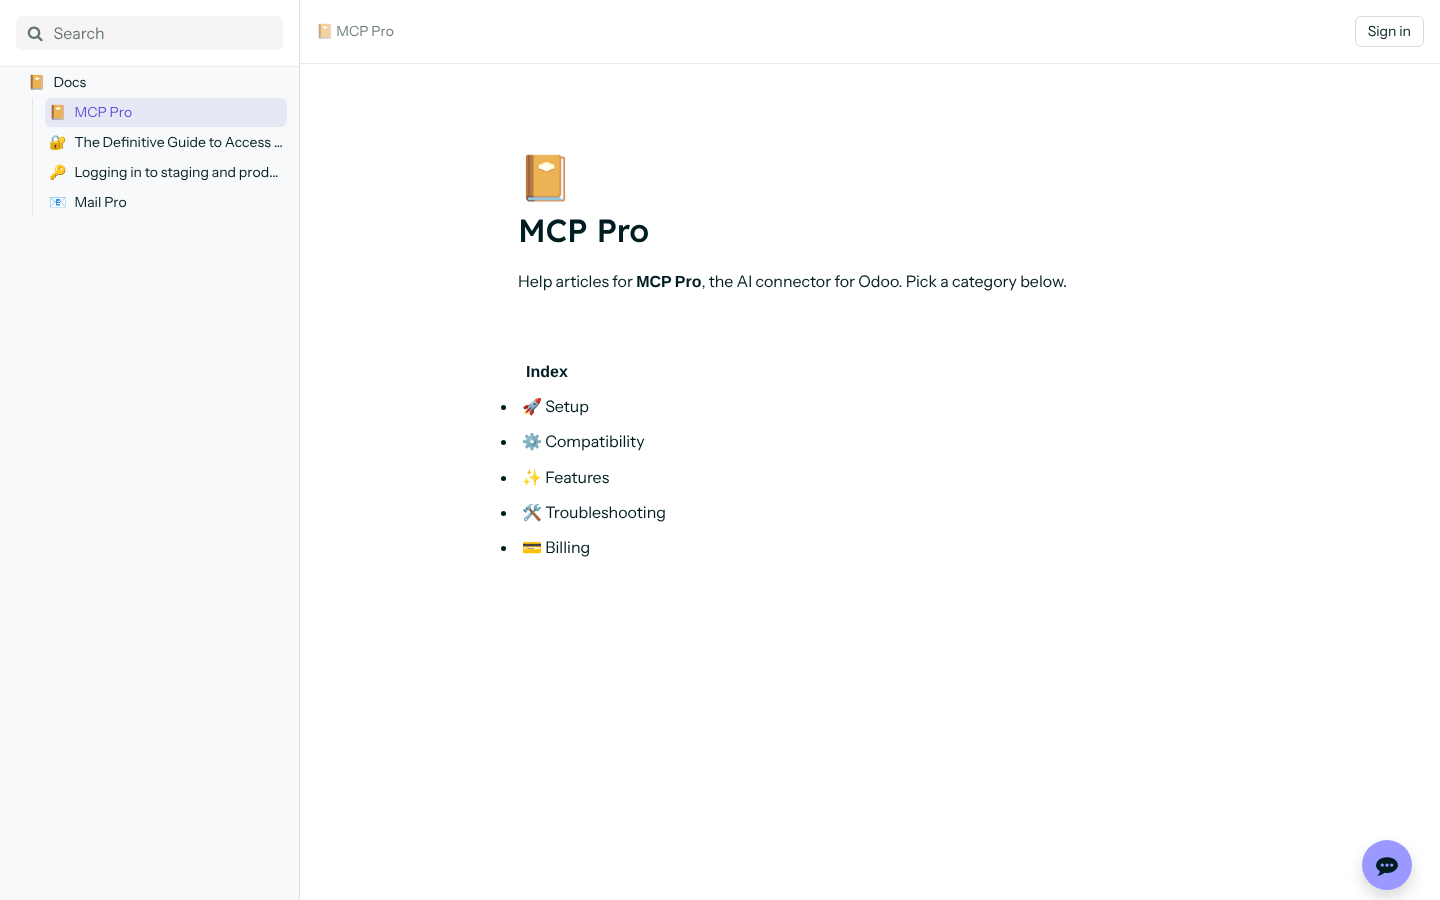
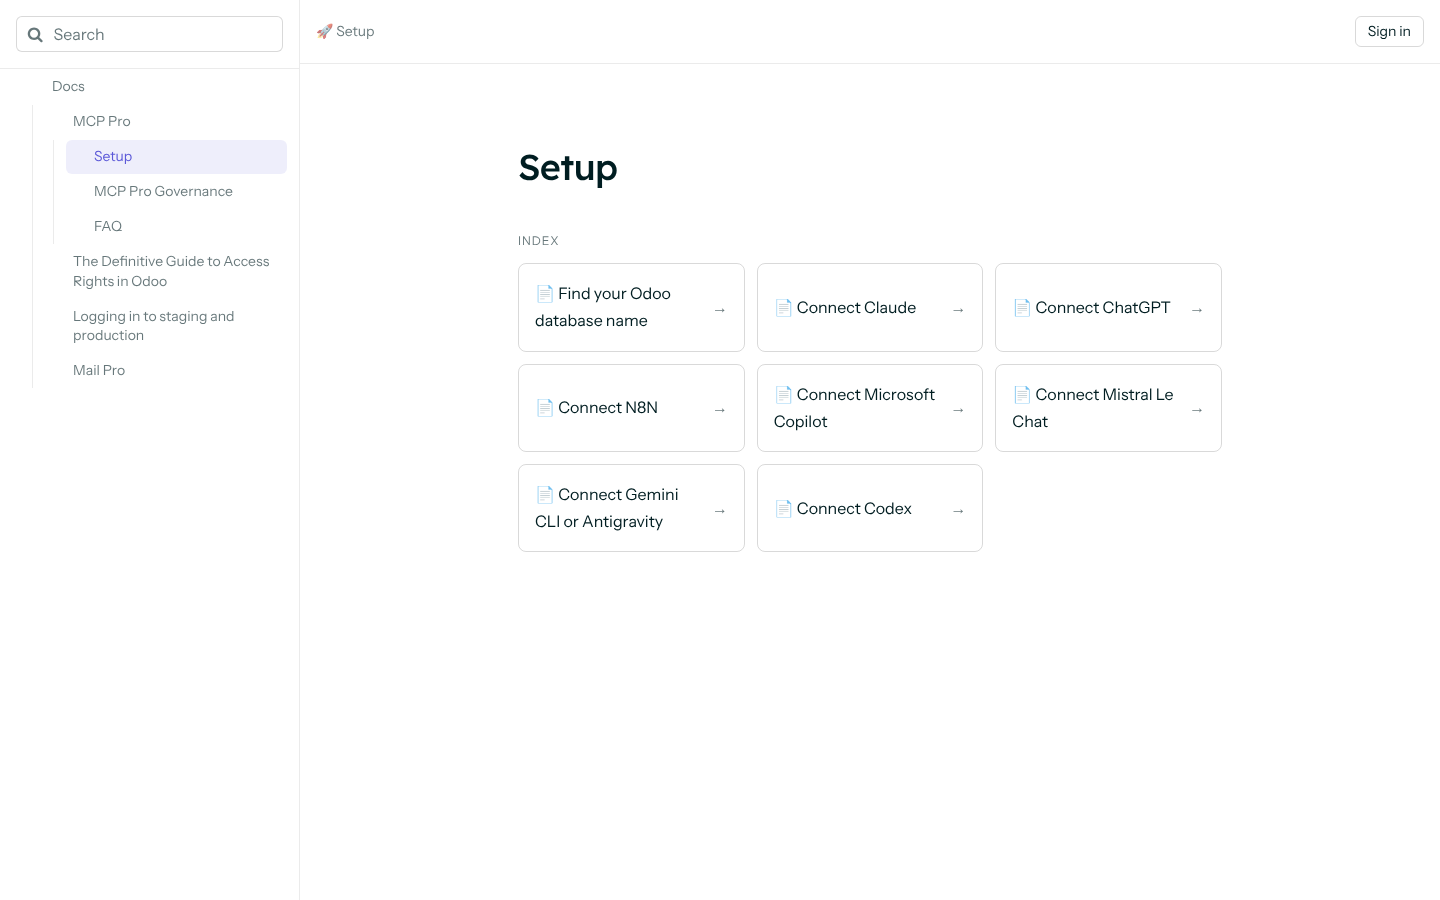
Knowledge: drop the wiki look -- white text-only nav, cards for the index
The emoji column, the grey sidebar panel and a bulleted index were what
still read as dated. The sidebar is white with text-only rows (caret on
hover), search is a bordered field, the page icon above the title is
gone, headings ignore theme colours, and the article index renders as
cards that wrap long titles.

Claude-Session: https://claude.ai/code/session_01VMehCQhpZk7iKSmaWM16ps

diff --git a/pan_style_pro_enterprise/static/src/scss/_knowledge.scss b/pan_style_pro_enterprise/static/src/scss/_knowledge.scss
@@ -31,7 +31,7 @@
   }
 
   h1 { font-size: 2rem;     margin: 2.5rem 0 1rem; }
-  h2 { font-size: 1.5rem;   margin: 2.25rem 0 0.75rem; padding-bottom: 0.5rem; border-bottom: 1px solid var(--pan-border); }
+  h2 { font-size: 1.5rem;   margin: 2.25rem 0 0.75rem; }
   h3 { font-size: 1.25rem;  margin: 1.75rem 0 0.5rem; }
   h4 { font-size: 1.0625rem; margin: 1.5rem 0 0.5rem; }
 
@@ -39,9 +39,78 @@
     margin-top: 0;
   }
 
-  // Brand: headings are never bold, even when the editor wrapped them in it
-  :is(h1, h2, h3, h4, h5, h6) :is(b, strong, span) {
+  h1 {
+    font-size: 2.25rem;
+    letter-spacing: -0.02em;
+  }
+
+  // Brand: headings are never bold and never a theme colour, even when the
+  // editor wrapped them in one
+  :is(h1, h2, h3, h4, h5, h6) :is(b, strong, span, font) {
     font-weight: inherit !important;
+    color: inherit !important;
+  }
+
+  // The article index embed: cards, not a bulleted list
+  .o_embedded_articles_index_label {
+    font-family: var(--pan-font-body) !important;
+    font-size: 0.75rem;
+    font-weight: 500 !important;
+    letter-spacing: 0.08em;
+    text-transform: uppercase;
+    color: var(--pan-text-secondary);
+    padding: 0 !important;
+    margin: var(--pan-space-5) 0 var(--pan-space-3);
+  }
+
+  .o_embedded_articles_index_content > ul {
+    display: grid;
+    grid-template-columns: repeat(auto-fill, minmax(13rem, 1fr));
+    gap: var(--pan-space-3);
+    list-style: none;
+    padding: 0 !important;
+
+    > li {
+      margin: 0;
+
+      // Cards show one level; the sidebar carries the rest of the tree
+      > ul {
+        display: none;
+      }
+
+      > a {
+        height: 100%;
+        align-items: center;
+        padding: var(--pan-space-4) !important;
+        border: 1px solid var(--pan-border-strong);
+        border-radius: var(--pan-radius-lg);
+        font-weight: 500;
+        color: var(--pan-text) !important;
+        text-decoration: none;
+        transition: border-color 0.15s, color 0.15s;
+
+        .text-truncate {
+          white-space: normal;
+        }
+
+        &::after {
+          content: "\2192";
+          margin-left: var(--pan-space-2);
+          color: var(--pan-text-secondary);
+          transition: transform 0.15s, color 0.15s;
+        }
+
+        &:hover {
+          border-color: var(--pan-accent);
+          color: var(--pan-accent) !important;
+
+          &::after {
+            color: var(--pan-accent);
+            transform: translateX(2px);
+          }
+        }
+      }
+    }
   }
 
   ul,
@@ -135,9 +204,34 @@
 // ─── Sidebar: the page tree ───────────────────────────────────────────────
 
 @mixin pan-knowledge-sidebar {
-  background-color: var(--pan-bg-secondary) !important;
+  background-color: var(--pan-bg) !important;
   border-right: 1px solid var(--pan-border) !important;
   font-size: 0.875rem;
+
+  // Odoo paints the inner panels bg-100
+  .bg-100 {
+    background-color: transparent !important;
+  }
+
+  // Text-only rows, as in a docs nav. The emoji column becomes a caret that
+  // shows on hover, so a tree can still be unfolded by hand.
+  .o_article_emoji {
+    display: none;
+  }
+
+  .o_article_icon {
+    width: 1.5rem;
+    flex: 0 0 1.5rem;
+    color: var(--pan-text-secondary);
+
+    .o_article_caret {
+      opacity: 0;
+    }
+  }
+
+  .o_article_handle:hover .o_article_icon .o_article_caret {
+    opacity: 1;
+  }
 
   // Section titles (Favorites, Workspace, Private): eyebrow, not a heading
   .o_section_header_label,
@@ -156,12 +250,14 @@
 
   .o_article .o_article_handle {
     border-radius: var(--pan-radius-md);
-    color: var(--pan-text);
+    color: var(--pan-text-secondary);
     margin: 1px var(--pan-space-2);
+    padding: 0.2rem 0;
     transition: background-color 0.12s, color 0.12s;
 
     &:hover {
-      background-color: var(--pan-border);
+      background-color: var(--pan-bg-secondary);
+      color: var(--pan-text);
     }
 
     .o_article_icon:hover {
@@ -192,6 +288,9 @@
   .o_article_name {
     color: inherit !important;
     font-weight: inherit !important;
+    // Wrap long titles instead of cutting them off
+    white-space: normal;
+    line-height: 1.4;
   }
 
   // Child pages hang off a thin guide line, like a docs nav
@@ -205,6 +304,12 @@
   }
 
   // Search and New buttons at the top of the tree
+  .o_public_search {
+    background-color: var(--pan-bg) !important;
+    border: 1px solid var(--pan-border-strong) !important;
+    height: 2.25rem;
+  }
+
   .o_knowledge_search,
   .o_public_search,
   .o_knowledge_create_article {
@@ -325,18 +430,18 @@ html body .o_knowledge_public_view {
     }
   }
 
+  // The page emoji above the title is what dates the page most; the
+  // breadcrumb still carries it
   .o_knowledge_icon {
-    font-size: 2.75rem;
+    display: none !important;
+  }
+
+  .o_knowledge_article {
     padding-top: var(--pan-space-6);
   }
 
   .o_knowledge_cover img {
     height: 22vh;
-  }
-
-  .o_knowledge_cover + .o_knowledge_icon {
-    margin-top: -1.5rem;
-    padding-top: 0;
   }
 
   .o_knowledge_icon:not(.o_full_width),
